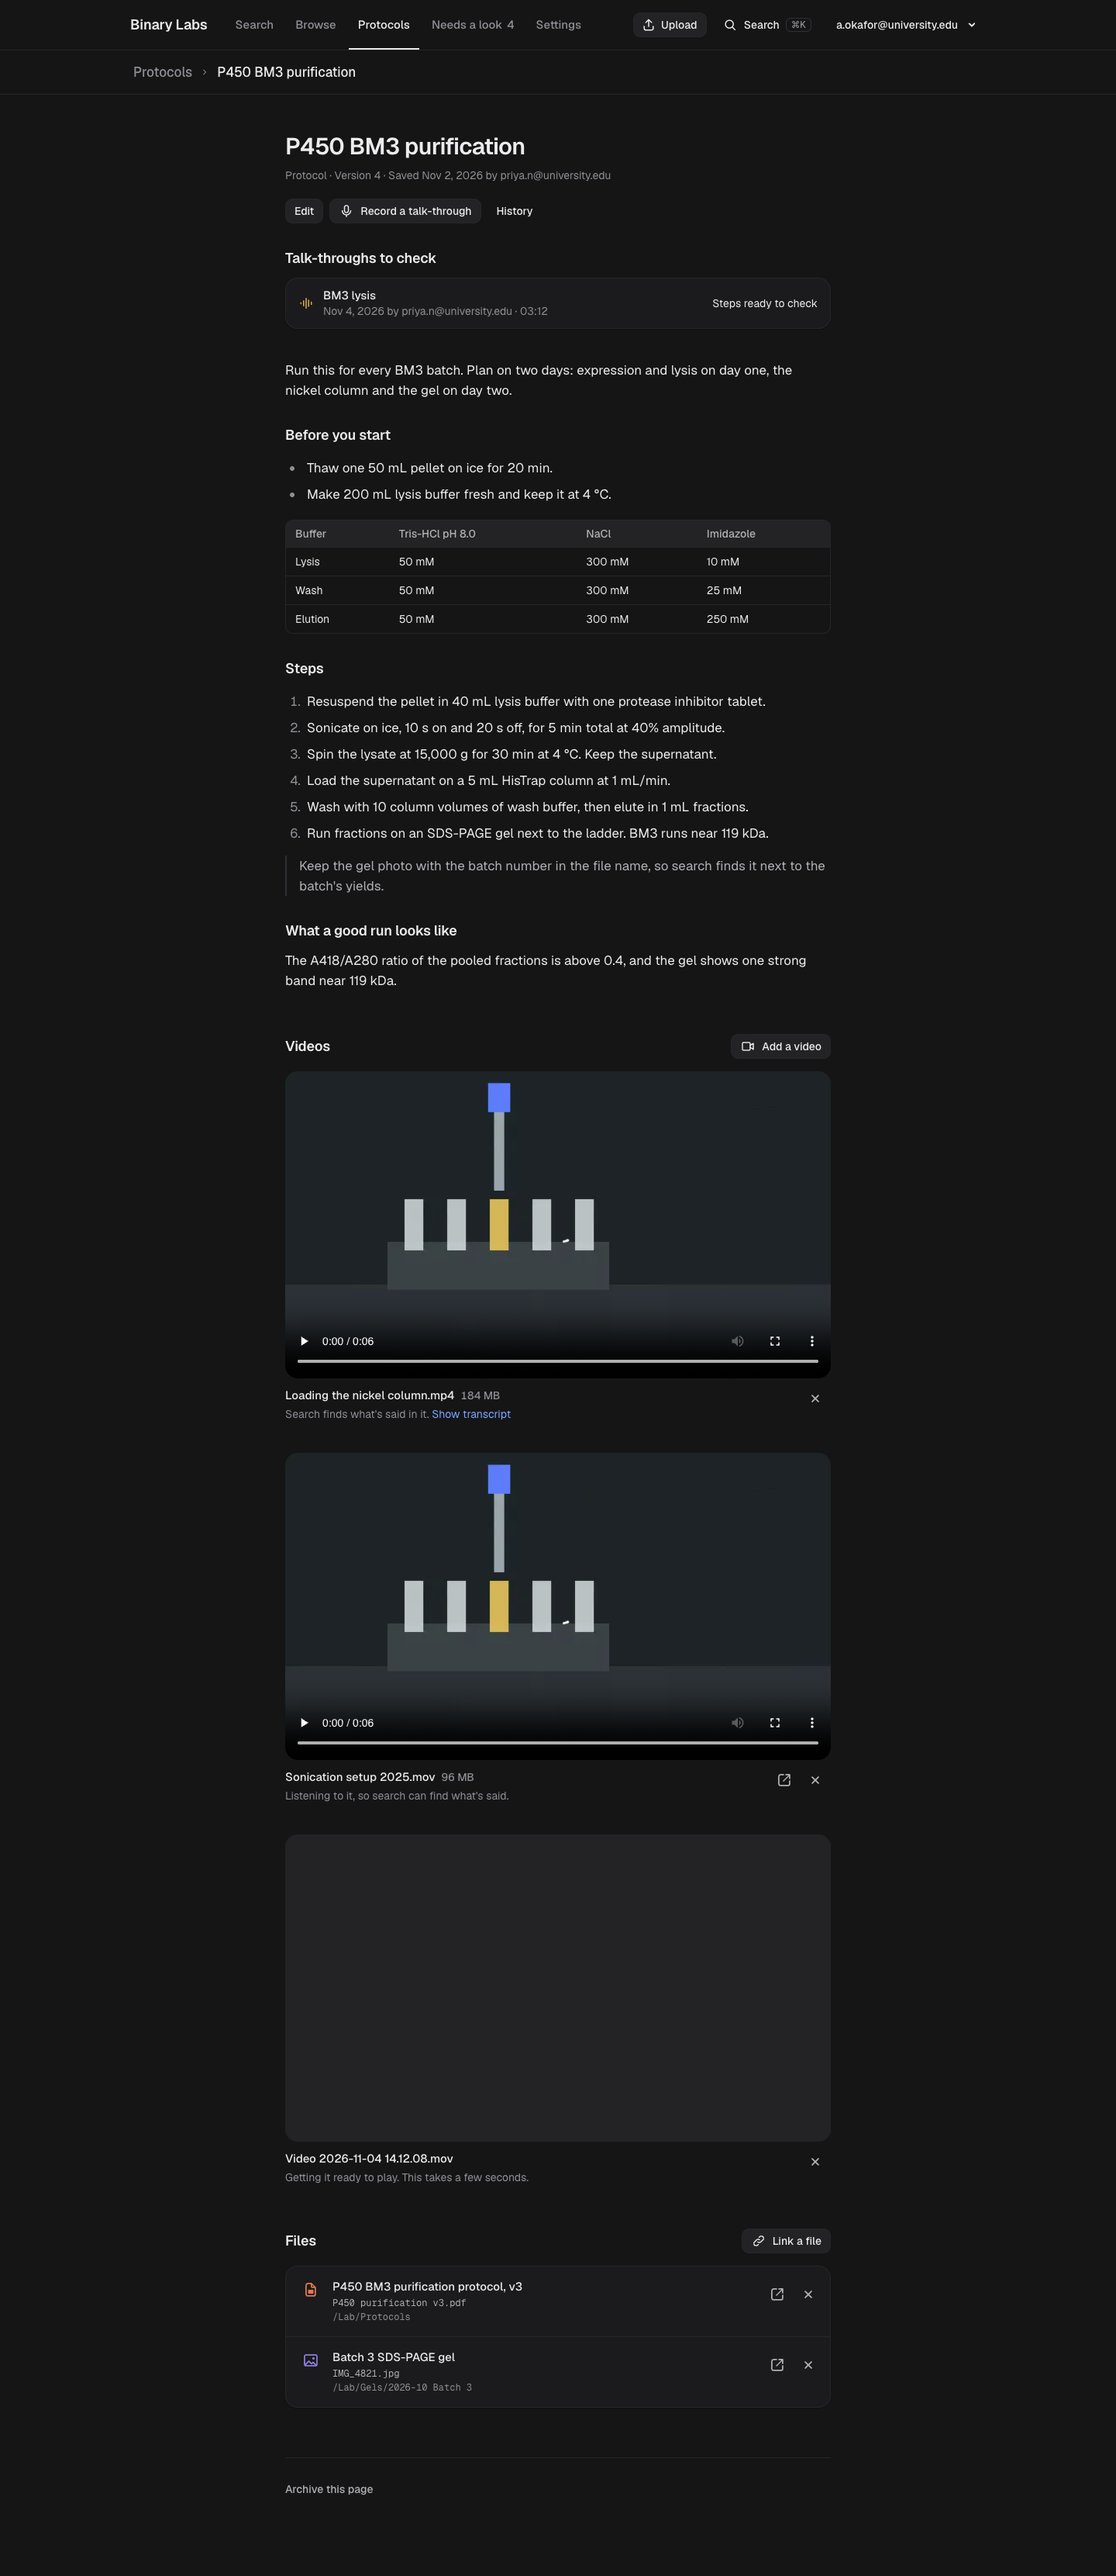
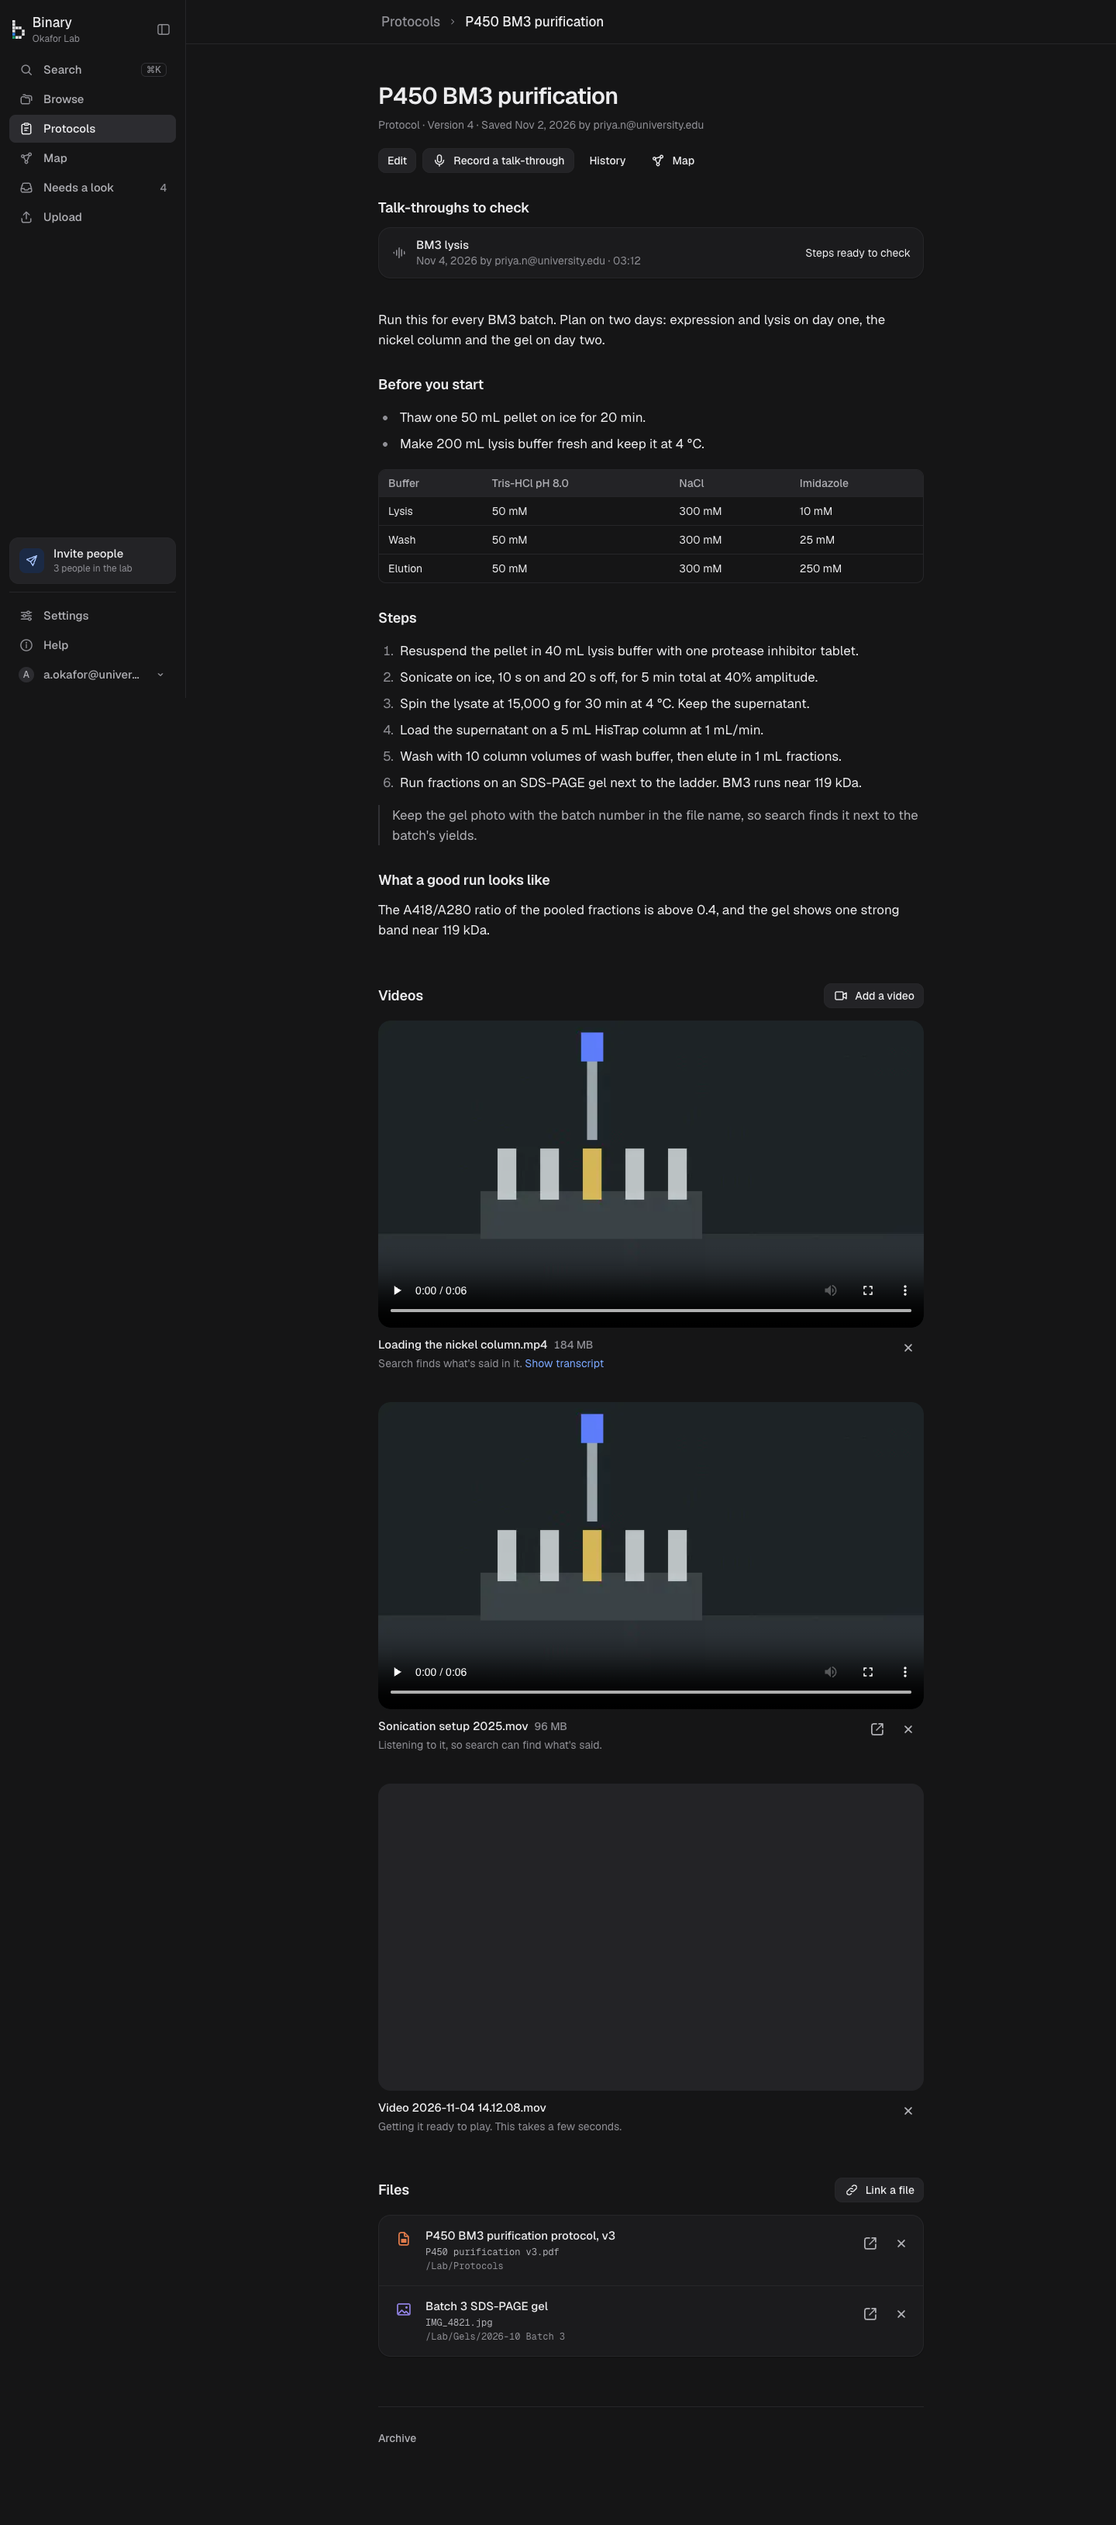
lab map migration is 0021; db tests for the map

diff --git a/apps/web/src/lib/__tests__/map.db.test.ts b/apps/web/src/lib/__tests__/map.db.test.ts
@@ -1,0 +1,185 @@
+import { Client } from "pg";
+import { afterAll, beforeAll, describe, expect, it } from "vitest";
+import { z } from "zod";
+import { CreateLabResult } from "../domain";
+import { LabId } from "../ids";
+import { HubFiles, HubView, LocalView } from "../map";
+
+// The lab map's three views against the real migrations, as members of two labs with RLS on:
+// what a member sees of their own lab, and that nothing of the other lab ever shows up, even
+// for a file both labs hold.
+
+const db = new Client({ connectionString: process.env.TEST_DATABASE_URL ?? "postgresql://localhost/binary_labs_web_test" });
+const rosa = "00000000-0000-4000-8000-0000000000f1";
+const sam = "00000000-0000-4000-8000-0000000000f2";
+const sha = (n: number) => `f${n.toString(16).padStart(63, "0")}`;
+// One gel both labs hold; each labels it its own way.
+const SHARED = sha(9);
+
+async function asUser<T>(userId: string | null, fn: () => Promise<T>): Promise<T> {
+  await db.query("begin");
+  try {
+    await db.query("set local role authenticated");
+    if (userId !== null) await db.query("select set_config('request.jwt.claims', $1, true)", [JSON.stringify({ sub: userId })]);
+    const out = await fn();
+    await db.query("commit");
+    return out;
+  } catch (err) {
+    await db.query("rollback");
+    throw err;
+  }
+}
+
+const one = z.object({ v: z.unknown() });
+async function call(userId: string | null, sql: string, params: unknown[]): Promise<unknown> {
+  return asUser(userId, async () => one.parse((await db.query(`select ${sql} as v`, params)).rows[0]).v);
+}
+
+let labA: LabId;
+let labB: LabId;
+let experiment: string;
+let protocol: string;
+let person: string;
+let other: string;
+
+async function addFile(lab: LabId, source: string, n: string, name: string, kind = "spreadsheet") {
+  await db.query("insert into blobs (sha256, size, mime, file_kind) values ($1, 10, 'text/csv', $2) on conflict do nothing", [n, kind]);
+  await db.query(
+    `insert into file_locations (lab_id, source_id, external_id, path, original_name, size, modified_at, source_rev, sha256, index_state)
+     values ($1, $2, $3, '/' || $3, $3, 10, now() - make_interval(mins => $4), 'r', $5, 'indexed')`,
+    [lab, source, name, parseInt(n.slice(-2), 16), n],
+  );
+}
+
+beforeAll(async () => {
+  await db.connect();
+  await db.query("insert into auth.users (id, email) values ($1, 'rosa@map.test'), ($2, 'sam@map.test') on conflict do nothing", [rosa, sam]);
+  labA = LabId.parse(CreateLabResult.parse((await asUser(rosa, () => db.query("select create_lab('Map lab A') as id"))).rows[0]?.id));
+  labB = LabId.parse(CreateLabResult.parse((await asUser(sam, () => db.query("select create_lab('Map lab B') as id"))).rows[0]?.id));
+  const sourceA = (await db.query("insert into sources (lab_id, kind, root_path) values ($1, 'local', '/a') returning id", [labA])).rows[0]?.id;
+  const sourceB = (await db.query("insert into sources (lab_id, kind, root_path) values ($1, 'local', '/b') returning id", [labB])).rows[0]?.id;
+  await addFile(labA, sourceA, sha(1), "plate7_read1.csv");
+  await addFile(labA, sourceA, sha(2), "plate7_read2.csv");
+  await addFile(labA, sourceA, sha(3), "SEC_trace.csv");
+  await addFile(labA, sourceA, sha(4), "gone.csv");
+  await addFile(labA, sourceA, SHARED, "IMG_4821.jpg", "image");
+  await addFile(labB, sourceB, SHARED, "IMG_4821.jpg", "image");
+  await db.query("update file_locations set deleted_at = now() where sha256 = $1", [sha(4)]);
+
+  await asUser(rosa, async () => {
+    protocol = (await db.query("select protocol_id from create_protocol($1, 'protocol', 'Plate reader kinetics', 'Read every minute.')", [labA])).rows[0]?.protocol_id;
+    experiment = (await db.query("insert into experiments (lab_id, name) values ($1, 'Screen plate 07') returning id", [labA])).rows[0]?.id;
+    await db.query("update experiments set protocol_id = $1 where id = $2", [protocol, experiment]);
+    person = (await db.query("insert into people (lab_id, display_name) values ($1, 'Priya Raman') returning id", [labA])).rows[0]?.id;
+    await db.query("select link_protocol_file($1, $2)", [protocol, sha(3)]);
+  });
+  await asUser(sam, async () => {
+    other = (await db.query("insert into experiments (lab_id, name) values ($1, 'Lab B secret') returning id", [labB])).rows[0]?.id;
+  });
+  // Labels as the worker writes them.
+  const label = (lab: LabId, s: string, name: string, exp: string | null, who: string | null, instrument: string | null, status = "accepted") =>
+    db.query(
+      `insert into labels (lab_id, sha256, status, clean_name, experiment_id, person_id, instrument, confidence, source)
+       values ($1, $2, $3, $4, $5, $6, $7, 0.9, 'rules')`,
+      [lab, s, status, status === "needs_look" ? null : name, exp, who, instrument],
+    );
+  await label(labA, sha(1), "Plate 7 read 1", experiment, person, "SpectraMax M5");
+  await label(labA, sha(2), "Plate 7 read 2", experiment, null, "spectramax m5 ");
+  await label(labA, sha(4), "Gone", experiment, person, null);
+  await label(labA, SHARED, "Batch 3 gel", null, person, null);
+  await label(labB, SHARED, "Lab B gel", other, null, "ChemiDoc");
+  // The worker's neighbor cache: plate reads 1 and 2 are alike.
+  await db.query("insert into file_vectors (lab_id, sha256) values ($1, $2), ($1, $3), ($1, $4) on conflict do nothing", [labA, sha(1), sha(2), sha(3)]);
+  await db.query("insert into file_neighbors (lab_id, sha256, neighbor, similarity) values ($1, $2, $3, 0.93), ($1, $3, $2, 0.93)", [labA, sha(1), sha(2)]);
+});
+
+afterAll(async () => {
+  await db.query("delete from labs where id = any($1)", [[labA, labB]]);
+  await db.end();
+});
+
+describe("the lab map", () => {
+  it("shows a member their lab's hubs, how many live files each holds, and an experiment's protocol", async () => {
+    const view = HubView.parse(await call(rosa, "lab_map($1)", [labA]));
+    const byName = Object.fromEntries(view.hubs.map((h) => [h.name, h]));
+    expect(Object.keys(byName).sort()).toEqual(["Plate reader kinetics", "Priya Raman", "Screen plate 07", "SpectraMax M5"]);
+    // Two plate reads; the gone file isn't counted; both spellings are one instrument.
+    expect(byName["Screen plate 07"]?.files).toBe(2);
+    expect(byName["SpectraMax M5"]?.files).toBe(2);
+    expect(byName["Priya Raman"]?.files).toBe(2);
+    expect(byName["Plate reader kinetics"]?.files).toBe(1);
+    expect(view.files).toBe(4);
+    expect(view.links.find((l) => l.kind === "uses")).toMatchObject({ source: `experiment:${experiment}`, target: `protocol:${protocol}` });
+    expect(view.links.some((l) => l.kind === "shared" && [l.source, l.target].includes(`experiment:${experiment}`))).toBe(true);
+  });
+
+  it("opens a hub's files with their links, and similar pairs only when asked", async () => {
+    const hub = HubFiles.parse(await call(rosa, "lab_map_hub($1, $2)", [labA, `experiment:${experiment}`]));
+    expect(hub.total).toBe(2);
+    expect(hub.nodes.map((n) => n.name).sort()).toEqual(["Plate 7 read 1", "Plate 7 read 2"]);
+    expect(hub.edges.filter((e) => e.kind === "similar")).toEqual([]);
+    expect(hub.edges.filter((e) => e.source === `file:${sha(1)}`).map((e) => e.target).sort()).toEqual(
+      [`experiment:${experiment}`, "instrument:spectramax m5", `person:${person}`].sort(),
+    );
+    const similar = HubFiles.parse(await call(rosa, "lab_map_hub($1, $2, 400, true)", [labA, `experiment:${experiment}`]));
+    expect(similar.edges.filter((e) => e.kind === "similar")).toEqual([
+      { source: `file:${sha(1)}`, target: `file:${sha(2)}`, kind: "similar", similarity: 0.93 },
+    ]);
+  });
+
+  it("maps one step and two steps around a file", async () => {
+    const near = LocalView.parse(await call(rosa, "lab_map_local($1, $2, 1)", [labA, `file:${sha(1)}`]));
+    expect(near.nodes.map((n) => n.id).sort()).toEqual([`experiment:${experiment}`, `file:${sha(1)}`, "instrument:spectramax m5", `person:${person}`].sort());
+    expect(near.more.find((m) => m.hub === `experiment:${experiment}`)?.hidden).toBe(1);
+    const far = LocalView.parse(await call(rosa, "lab_map_local($1, $2, 2)", [labA, `file:${sha(1)}`]));
+    const ids = far.nodes.map((n) => n.id);
+    expect(ids).toContain(`file:${sha(2)}`);
+    expect(ids).toContain(`protocol:${protocol}`);
+    expect(ids).toContain(`file:${SHARED}`);
+    expect(ids).not.toContain(`file:${sha(4)}`);
+    const similar = LocalView.parse(await call(rosa, "lab_map_local($1, $2, 1, true)", [labA, `file:${sha(1)}`]));
+    expect(similar.nodes.map((n) => n.id)).toContain(`file:${sha(2)}`);
+    const aroundProtocol = LocalView.parse(await call(rosa, "lab_map_local($1, $2, 1)", [labA, `protocol:${protocol}`]));
+    expect(aroundProtocol.nodes.map((n) => n.id).sort()).toEqual([`experiment:${experiment}`, `file:${sha(3)}`, `protocol:${protocol}`].sort());
+  });
+
+  it("never shows one lab's nodes to another, even for a file both hold", async () => {
+    await expect(call(sam, "lab_map($1)", [labA])).rejects.toThrow(/not a member/);
+    await expect(call(sam, "lab_map_hub($1, $2)", [labA, `experiment:${experiment}`])).rejects.toThrow(/not a member/);
+    await expect(call(sam, "lab_map_local($1, $2, 2, true)", [labA, `file:${SHARED}`])).rejects.toThrow(/not a member/);
+    await expect(call(null, "lab_map($1)", [labA])).rejects.toThrow(/not a member/);
+
+    const mine = HubView.parse(await call(sam, "lab_map($1)", [labB]));
+    expect(mine.hubs.map((h) => h.name).sort()).toEqual(["ChemiDoc", "Lab B secret"]);
+    const gel = LocalView.parse(await call(sam, "lab_map_local($1, $2, 2, true)", [labB, `file:${SHARED}`]));
+    expect(gel.nodes.map((n) => n.kind === "file" || n.kind === "more" ? n.id : n.name).sort()).toEqual(["ChemiDoc", "Lab B secret", `file:${SHARED}`].sort());
+    expect(gel.nodes.find((n) => n.id === `file:${SHARED}`)).toMatchObject({ name: "Lab B gel" });
+    // Lab A's hubs asked for by id from lab B are no such thing there.
+    expect(await call(sam, "lab_map_hub($1, $2)", [labB, `experiment:${experiment}`])).toBeNull();
+    expect(await call(sam, "lab_map_local($1, $2)", [labB, `person:${person}`])).toBeNull();
+    expect(await asUser(sam, async () => (await db.query("select * from file_neighbors")).rows)).toEqual([]);
+  });
+
+  it("keeps its helpers and the neighbor cache out of members' reach", async () => {
+    await expect(call(rosa, "map_links($1)", [labA])).rejects.toThrow(/permission denied/);
+    await expect(call(rosa, "map_hub_files($1, $2, 10)", [labA, `experiment:${experiment}`])).rejects.toThrow(/permission denied/);
+    await expect(asUser(rosa, () => db.query("select count(*) from file_vectors"))).rejects.toThrow(/permission denied/);
+    await expect(asUser(rosa, () => db.query("delete from file_neighbors"))).rejects.toThrow(/permission denied/);
+    expect((await asUser(rosa, () => db.query("select count(*)::int as n from file_neighbors"))).rows[0]?.n).toBe(2);
+  });
+
+  it("leaves out an archived protocol and a label still waiting for a look", async () => {
+    await asUser(rosa, () => db.query("update labels set status = status where false"));
+    await db.query("update labels set status = 'needs_look', clean_name = null where lab_id = $1 and sha256 = $2", [labA, sha(2)]);
+    await db.query("update protocols set archived_at = now() where id = $1", [protocol]);
+    try {
+      const view = HubView.parse(await call(rosa, "lab_map($1)", [labA]));
+      expect(view.hubs.map((h) => h.name)).not.toContain("Plate reader kinetics");
+      expect(view.hubs.find((h) => h.name === "Screen plate 07")?.files).toBe(1);
+      expect(view.links.some((l) => l.kind === "uses")).toBe(false);
+    } finally {
+      await db.query("update protocols set archived_at = null where id = $1", [protocol]);
+      await db.query("update labels set status = 'accepted', clean_name = 'Plate 7 read 2' where lab_id = $1 and sha256 = $2", [labA, sha(2)]);
+    }
+  });
+});

diff --git a/apps/web/src/lib/map-data.ts b/apps/web/src/lib/map-data.ts
@@ -3,7 +3,7 @@ import type { LabId } from "./ids";
 import { HUB_FILE_LIMIT, HubFiles, HubView, LocalView, type Depth, type HubQuery, type LocalQuery } from "./map";
 import { unwrap, type Supabase } from "./supabase/server";
 
-// The lab map's three views, one SQL function each (db/migrations/0016_lab_map.sql). They run
+// The lab map's three views, one SQL function each (db/migrations/0021_lab_map.sql). They run
 // as the member, so RLS decides what any of them can see.
 
 export async function loadHubView(supabase: Supabase, labId: LabId): Promise<HubView> {

diff --git a/apps/web/src/lib/map.ts b/apps/web/src/lib/map.ts
@@ -4,7 +4,7 @@ import { KIND_LABELS } from "./format";
 import { ProtocolId, Sha256 } from "./ids";
 
 // The lab map (decisions.md, "the lab map"): what lab_map, lab_map_hub and lab_map_local in
-// db/migrations/0016_lab_map.sql return, parsed once here, and the graph the map draws from
+// db/migrations/0021_lab_map.sql return, parsed once here, and the graph the map draws from
 // them. Node ids are the database's: file:<sha256>, protocol:<uuid>, experiment:<uuid>,
 // person:<uuid> and instrument:<lowercased name>.
 
